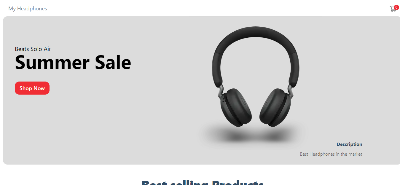
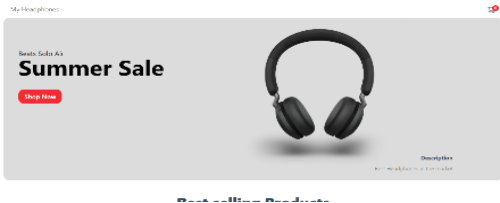
without burgerItems

diff --git a/components/Navbar.jsx b/components/Navbar.jsx
@@ -1,9 +1,17 @@
 import React from "react";
+import { useState } from "react";
 import styles from "../styles/components/Navbar.module.scss";
 import Image from "next/image";
 import logo from "../images/logo primary.svg";
 import Link from "next/link";
+
 const Navbar = () => {
+  const [burger, setBurger] = useState(false);
+
+  const handleNav = () => {
+    setBurger(!burger);
+  };
+
   return (
     <nav className={styles.navbar}>
       <div className={styles.nav_wrapper}>
@@ -38,6 +46,36 @@ const Navbar = () => {
               </li>
             </Link>
           </ul>
+
+          {burger && (
+            <ul className={styles.burger_items}>
+              <Link href="/">
+                <li className={styles.nav_item}>
+                  <span>#</span>home
+                </li>
+              </Link>
+              <Link href="/about">
+                <li className={styles.nav_item}>
+                  <span>#</span>about
+                </li>
+              </Link>
+              <Link href="./projects">
+                <li className={styles.nav_item}>
+                  <span>#</span>projects
+                </li>
+              </Link>
+              <Link href="/contacts">
+                <li className={styles.nav_item}>
+                  <span>#</span>contacts
+                </li>
+              </Link>
+            </ul>
+          )}
+          <div className={styles.humBurger} onClick={handleNav}>
+            <div className={styles.item}></div>
+            <div className={styles.item}></div>
+            <div className={styles.item}></div>
+          </div>
         </div>
       </div>
     </nav>

diff --git a/styles/components/Skills.module.scss b/styles/components/Skills.module.scss
@@ -2,7 +2,7 @@
 @import "../variables";
 .skills_con {
   max-width: 100vw;
-  height: 70vh;
+  padding: 2rem 1rem;
   .skills_header {
     display: flex;
     align-items: center;
@@ -21,11 +21,15 @@
   .skill_con_wrapper {
     position: relative;
     display: flex;
+    align-items: center;
     justify-content: space-around;
     flex-flow: row wrap;
     gap: 2rem;
   }
   .row_left {
+    @media (max-width: 968px) {
+      display: none;
+    }
     .dots1 {
       position: absolute;
       bottom: 20%;
@@ -36,21 +40,26 @@
       top: 30%;
       left: 15%;
       height: 300px;
+      z-index: 0;
+      @media (max-width: 768px) {
+        display: none;
+      }
     }
     .rect {
       position: absolute;
-      top: 30%;
-      left: 10%;
+      top: 20%;
+      left: 15%;
     }
     .dots2 {
       position: absolute;
-      top: 25%;
+      top: 2%;
       left: 0;
     }
   }
   .row_right {
     display: flex;
     flex-flow: row wrap;
+    justify-content: center;
     gap: 2rem;
 
     .skill_card {

diff --git a/styles/components/Navbar.module.scss b/styles/components/Navbar.module.scss
@@ -4,7 +4,7 @@
 .navbar {
   .nav_wrapper {
     @include flex;
-    width: 90%;
+    width: 100%;
     justify-content: space-between;
     .logo_con {
       .link_con {
@@ -22,6 +22,7 @@
       }
     }
     .nav_menu {
+      position: relative;
       .nav_items {
         @include flex;
         gap: 2rem;
@@ -36,6 +37,31 @@
             color: $purple;
             margin-right: 0.1rem;
           }
+        }
+        @media (max-width: 768px) {
+          display: none;
+        }
+      }
+
+      .burger_items {
+        position: absolute;
+        top: 100%;
+        right: 0%;
+        @media (min-width: 768px) {
+          display: none;
+        }
+      }
+
+      .humBurger {
+        @media (min-width: 768px) {
+          display: none;
+        }
+        .item {
+          width: 2.5rem;
+          height: 3px;
+          border-radius: 5px;
+          background-color: $gray_light;
+          margin-top: 0.4rem;
         }
       }
     }

diff --git a/styles/components/Hero.module.scss b/styles/components/Hero.module.scss
@@ -2,15 +2,14 @@
 @import "../variables";
 
 .hero_con {
-  max-height: 100vh;
   max-width: 100%;
   .hero_wrapper {
-    width: 100%;
     display: flex;
+    flex-flow: row wrap;
     align-items: center;
     justify-content: space-around;
     .row_left {
-      width: 100%;
+      max-width: 100%;
       .title {
         span {
           color: $purple;
@@ -37,10 +36,14 @@
           position: absolute;
           top: 10%;
           left: -10%;
+          z-index: 0;
+          @media (max-width: 622px) {
+            display: none;
+          }
         }
         .author_img {
           border-bottom: 1px solid $gray;
-          z-index: 99;
+          width: 100%;
         }
       }
     }
@@ -58,6 +61,9 @@
     .quote_writer {
       text-align: right;
       margin-top: -0.9rem;
+      fieldset {
+        border: 1px solid;
+      }
     }
   }
 }

diff --git a/components/ProjectCard.jsx b/components/ProjectCard.jsx
@@ -3,8 +3,6 @@ import styles from "../styles/components/ProjectCard.module.scss";
 import Image from "next/image";
 import { data } from "./data";
 import Link from "next/link";
-import { FontAwesomeIcon } from "@fortawesome/react-fontawesome";
-import { faTentArrowLeftRight } from "@fortawesome/free-solid-svg-icons";
 
 const ProjectCard = () => {
   return (
@@ -20,10 +18,7 @@ const ProjectCard = () => {
             <p className={styles.desc}>{data?.subTitle}</p>
             <div className={styles.btn_con}>
               <Link href={data?.link} target="_blank">
-                <button className={styles.btn}>
-                  Live
-                  <FontAwesomeIcon icon={faTentArrowLeftRight} />
-                </button>
+                <button className={styles.btn}>Live ↔ </button>
               </Link>
             </div>
           </div>

diff --git a/styles/components/About.module.scss b/styles/components/About.module.scss
@@ -2,6 +2,7 @@
 @import "../variables";
 .about_con {
   width: 100%;
+
   .about_header {
     display: flex;
     align-items: baseline;
@@ -17,14 +18,21 @@
   }
   .about_wrapper {
     display: flex;
-    flex-direction: row;
+    flex-flow: row wrap;
     align-items: center;
     justify-content: space-between;
+    @media (max-width: 968px) {
+      justify-content: center;
+    }
     .row_left {
       max-width: 60%;
+      @media (max-width: 968px) {
+        max-width: 100%;
+        margin-bottom: 2rem;
+      }
       .info {
         .para {
-          line-height: 1.5rem;
+          line-height: 1.7rem;
         }
       }
       .btn {

diff --git a/components/ProjectsCard.jsx b/components/ProjectsCard.jsx
@@ -3,13 +3,13 @@ import Link from "next/link";
 import ProjectCard from "./ProjectCard";
 import styles from "../styles/components/ProjectsCard.module.scss";
 
-const ProjectsCard = ({ viewAll }) => {
+const ProjectsCard = ({ viewAll, slashOrHash }) => {
   return (
     <div className={styles.projects_con}>
       <div className={styles.projects_header}>
         <div className={styles.title_wrapper}>
           <h1 className={styles.title}>
-            <span>#</span>projects
+            <span>{slashOrHash}</span>projects
           </h1>
           <p className={styles.line}></p>
         </div>

diff --git a/styles/components/Funfact.module.scss b/styles/components/Funfact.module.scss
@@ -15,9 +15,12 @@
     display: flex;
     justify-content: space-between;
     .items {
-      flex-basis: 60%;
+      flex-basis: 70%;
       display: flex;
       align-items: center;
+      @media (max-width: 768px) {
+        flex-basis: 80%;
+      }
       .item {
         @include btn-fill-secondary(0.3rem 0.5rem);
         margin-right: 0.5rem;
@@ -29,6 +32,9 @@
         position: absolute;
         top: 5%;
         right: 20%;
+        @media (max-width: 768px) {
+          display: none;
+        }
       }
       .dots {
         position: absolute;

diff --git a/pages/projects/index.js b/pages/projects/index.js
@@ -1,7 +1,7 @@
 import React from "react";
 import Head from "next/head";
 import Layout from "../../components/Layout";
-import ProjectCard from "../../components/ProjectCard";
+import ProjectsCard from "../../components/ProjectsCard";
 import styles from "../../styles/ProjectsPage.module.scss";
 
 const Projects = () => {
@@ -13,7 +13,7 @@ const Projects = () => {
         <link rel="icon" href="/favicon.ico" />
       </Head>
       <Layout>
-        <ProjectCard />
+        <ProjectsCard slashOrHash="/" />
       </Layout>
     </div>
   );

diff --git a/styles/components/Contact.module.scss b/styles/components/Contact.module.scss
@@ -2,6 +2,8 @@
 @import "../mixins";
 
 .contact_con {
+  margin-top: 2rem;
+  margin-bottom: 2rem;
   .contact_header {
     display: flex;
     align-items: baseline;
@@ -17,10 +19,18 @@
   }
   .contact_wrapper {
     display: flex;
+    flex-flow: row wrap;
     justify-content: space-around;
     align-items: center;
     .row_left {
       flex-basis: 50%;
+      @media (max-width: 668px) {
+        flex-basis: 100%;
+      }
+
+      .desc {
+        line-height: 1.7rem;
+      }
     }
     .row_right {
       border: 1px solid $gray;

diff --git a/styles/components/Footer.module.scss b/styles/components/Footer.module.scss
@@ -1,4 +1,5 @@
 @import "../variables";
+@import "../mixins";
 .footer_con {
   margin-top: 1rem;
   border-top: 1px solid $gray;
@@ -12,14 +13,23 @@
         align-items: center;
         gap: 0.5rem;
       }
+      .desc {
+        line-height: 1.7rem;
+      }
     }
     .row_right {
       .icon_con {
+        @include flex;
         a {
           margin-left: 1rem;
           color: $gray;
         }
       }
     }
+  }
+  .copyright {
+    text-align: center;
+    margin-top: 2rem;
+    color: $gray;
   }
 }

diff --git a/styles/components/ProjectCard.module.scss b/styles/components/ProjectCard.module.scss
@@ -4,17 +4,19 @@
   padding: 1.5rem 0rem;
   display: flex;
   flex-flow: row wrap;
-  gap: 5rem;
-  @media (max-width: 768px) {
-  }
+  justify-content: center;
+  gap: 3rem;
   .card_wrapper {
     border: 1px solid $gray;
     .img_con {
       img {
-        width: 500px;
+        width: 100%;
         height: 185px;
         @include borderBottom;
         padding-bottom: 0;
+        @media (min-width: 968px) {
+          width: 350px;
+        }
       }
     }
     .card_info {
